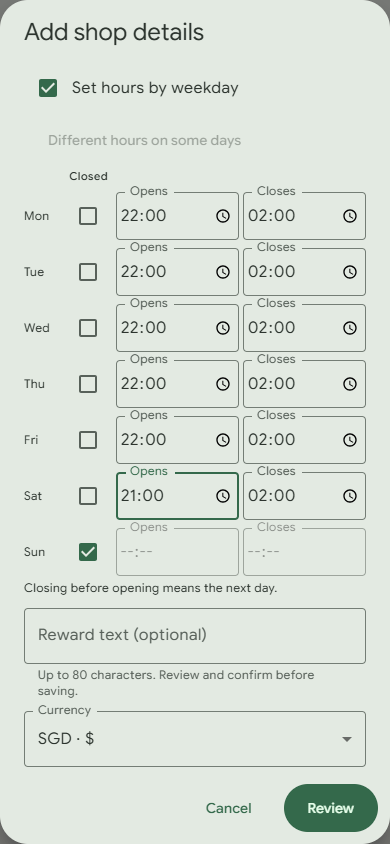
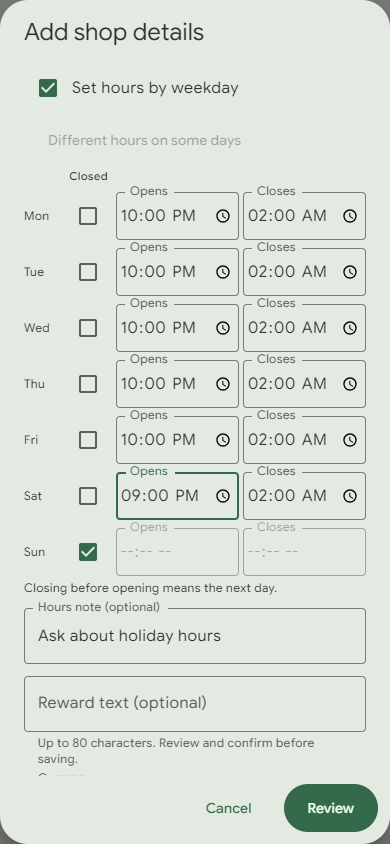
B11: free-text hours becomes an optional note below the schedule

diff --git a/src/features/shop/strings.ts b/src/features/shop/strings.ts
@@ -4,6 +4,7 @@ import type { Locale } from '../../i18n/locales'
 const en = {
   weeklyHours: 'Weekly hours',
   setWeeklyHours: 'Set hours by weekday',
+  hoursNote: 'Hours note (optional)',
   differentHours: 'Different hours on some days',
   closed: 'Closed',
   opens: 'Opens',
@@ -24,6 +25,7 @@ type Copy = typeof en
 const translations: Record<Locale, Copy> = {
   en,
   'zh-Hans': {
+    hoursNote: '营业时间备注（可选）',
     differentHours: '部分日期的营业时间不同',
     weeklyHours: '每周营业时间',
     setWeeklyHours: '按星期设置时间',
@@ -36,6 +38,7 @@ const translations: Record<Locale, Copy> = {
     categories: { drinks: '饮品', food: '食品', desserts: '甜点', services: '服务', other: '其他' },
   },
   ms: {
+    hoursNote: 'Nota waktu (pilihan)',
     differentHours: 'Waktu berbeza pada sesetengah hari',
     weeklyHours: 'Waktu mingguan',
     setWeeklyHours: 'Tetapkan waktu mengikut hari',
@@ -54,6 +57,7 @@ const translations: Record<Locale, Copy> = {
     },
   },
   ta: {
+    hoursNote: 'நேரக் குறிப்பு (விருப்பம்)',
     differentHours: 'சில நாட்களில் வேறு நேரங்கள்',
     weeklyHours: 'வார நேரங்கள்',
     setWeeklyHours: 'வார நாளின்படி நேரம் அமைக்கவும்',
@@ -72,6 +76,7 @@ const translations: Record<Locale, Copy> = {
     },
   },
   ja: {
+    hoursNote: '営業時間のメモ（任意）',
     differentHours: '一部の曜日で営業時間が異なる',
     weeklyHours: '曜日別営業時間',
     setWeeklyHours: '曜日ごとに時間を設定',
@@ -90,6 +95,7 @@ const translations: Record<Locale, Copy> = {
     },
   },
   ko: {
+    hoursNote: '영업시간 메모(선택)',
     differentHours: '일부 요일은 다른 영업시간',
     weeklyHours: '요일별 영업시간',
     setWeeklyHours: '요일별 시간 설정',
@@ -108,6 +114,7 @@ const translations: Record<Locale, Copy> = {
     },
   },
   id: {
+    hoursNote: 'Catatan jam (opsional)',
     differentHours: 'Jam berbeda pada beberapa hari',
     weeklyHours: 'Jam mingguan',
     setWeeklyHours: 'Atur jam per hari',
@@ -126,6 +133,7 @@ const translations: Record<Locale, Copy> = {
     },
   },
   th: {
+    hoursNote: 'หมายเหตุเวลาเปิดปิด (ไม่บังคับ)',
     differentHours: 'บางวันมีเวลาเปิดปิดต่างกัน',
     weeklyHours: 'เวลาประจำสัปดาห์',
     setWeeklyHours: 'ตั้งเวลาตามวัน',
@@ -144,6 +152,7 @@ const translations: Record<Locale, Copy> = {
     },
   },
   vi: {
+    hoursNote: 'Ghi chú giờ mở cửa (không bắt buộc)',
     differentHours: 'Giờ khác nhau vào một số ngày',
     weeklyHours: 'Giờ theo tuần',
     setWeeklyHours: 'Đặt giờ theo ngày',
@@ -162,6 +171,7 @@ const translations: Record<Locale, Copy> = {
     },
   },
   fil: {
+    hoursNote: 'Tala sa oras (opsyonal)',
     differentHours: 'Ibang oras sa ilang araw',
     weeklyHours: 'Oras bawat linggo',
     setWeeklyHours: 'Itakda ang oras bawat araw',

diff --git a/src/features/v1/EditDialogs.tsx b/src/features/v1/EditDialogs.tsx
@@ -47,6 +47,7 @@ export function BusinessDialog() {
 function BusinessForm({ initial }: { initial: Business['fields'] }) {
   const t = useCopy()
   const rewards = useRewardCopy()
+  const shopCopy = useShopCopy()
   const { api, active, editor, openEditor, review } = useWorkspace()
   const compact = useCompact()
   const [fields, setFields] = useState(initial)
@@ -97,22 +98,34 @@ function BusinessForm({ initial }: { initial: Business['fields'] }) {
             void submit()
           }}
         >
-          {(Object.keys(t.fields) as (keyof typeof t.fields)[]).map((key) => (
-            <TextField
-              key={key}
-              label={t.fields[key]}
-              value={fields[key]}
-              required={key === 'name'}
-              autoFocus={key === 'name'}
-              type={key === 'phone' ? 'tel' : 'text'}
-              autoComplete={key === 'phone' ? 'tel' : key === 'location' ? 'street-address' : 'off'}
-              onChange={(event) => setFields({ ...fields, [key]: event.target.value })}
-              slotProps={{ htmlInput: { maxLength: key === 'location' ? 300 : 180 } }}
-            />
-          ))}
+          {(Object.keys(t.fields) as (keyof typeof t.fields)[])
+            .filter((key) => key !== 'hours')
+            .map((key) => (
+              <TextField
+                key={key}
+                label={t.fields[key]}
+                value={fields[key]}
+                required={key === 'name'}
+                autoFocus={key === 'name'}
+                type={key === 'phone' ? 'tel' : 'text'}
+                autoComplete={
+                  key === 'phone' ? 'tel' : key === 'location' ? 'street-address' : 'off'
+                }
+                onChange={(event) => setFields({ ...fields, [key]: event.target.value })}
+                slotProps={{ htmlInput: { maxLength: key === 'location' ? 300 : 180 } }}
+              />
+            ))}
           <HoursEditor
             value={fields.weekly_hours ?? []}
             onChange={(weekly_hours) => setFields({ ...fields, weekly_hours })}
+          />
+          {/* Free text stays for what a schedule can't say (holidays, "until sold out"). */}
+          <TextField
+            label={shopCopy.hoursNote}
+            value={fields.hours}
+            autoComplete="off"
+            onChange={(event) => setFields({ ...fields, hours: event.target.value })}
+            slotProps={{ htmlInput: { maxLength: 180 } }}
           />
           <TextField
             label={rewards.reward}

diff --git a/tests/bugs-b8-b12.spec.ts b/tests/bugs-b8-b12.spec.ts
@@ -229,7 +229,7 @@ test('B11: weekday hours are reviewed, saved and shown publicly', async ({ page 
   await enter(page, false)
   await page.getByRole('button', { name: 'Add my shop', exact: true }).click()
   await page.getByLabel('Shop name').fill('Katong Night Kopi')
-  await page.getByLabel('Opening hours', { exact: true }).fill('Ask about holiday hours')
+  await page.getByLabel('Hours note (optional)', { exact: true }).fill('Ask about holiday hours')
   await page.getByLabel('Set hours by weekday').check()
   await expect(page.locator('input[type="time"]')).toHaveCount(2)
   for (const day of [
@@ -345,7 +345,9 @@ test('B11: existing different hours survive editing, and shared times survive cl
   await expect(page.getByLabel('Closes', { exact: true })).toHaveValue('18:00')
   await page.getByLabel('Set hours by weekday').uncheck()
   await expect(page.locator('input[type="time"]')).toHaveCount(0)
-  await expect(page.getByLabel('Opening hours', { exact: true })).toHaveValue(business.fields.hours)
+  await expect(page.getByLabel('Hours note (optional)', { exact: true })).toHaveValue(
+    business.fields.hours,
+  )
 })
 
 for (const locale of [
